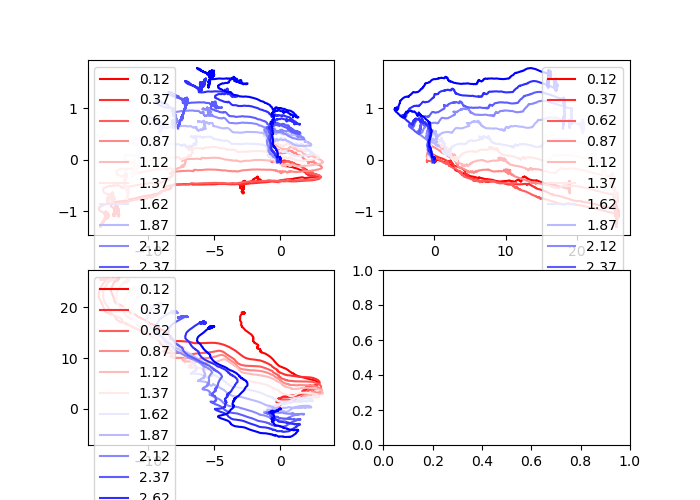
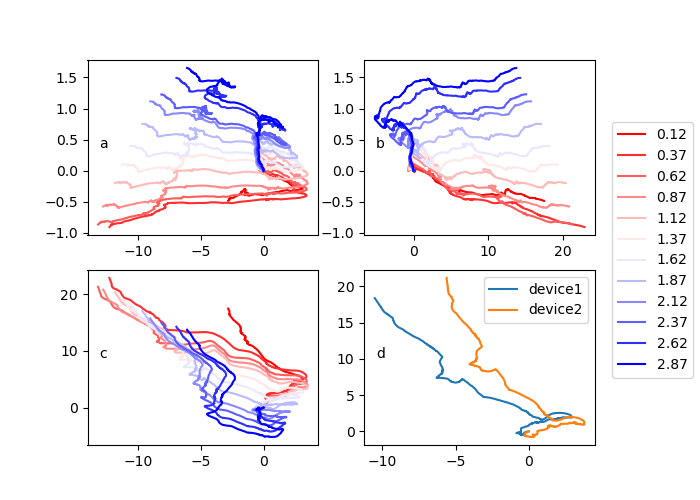
add legend to last sublot, trim air recording, update plots

diff --git a/make_plots.py b/make_plots.py
@@ -11,15 +11,18 @@ def plot_pvd(x, y, ax=None):
         ax.plot(x.loc[:, depth], y.loc[:, depth], label=f"{depth:.2f}", color=color)
 
 
+index = slice("2020-03-28", "2020-04-05")
 aq1 = {}
 for direction in ["East", "North", "Up"]:
     aq1[direction.lower()] = pd.read_csv(f"AQ1_EXP102.{direction}.csv", index_col=0, parse_dates=True)
     aq1[direction.lower()].columns = aq1[direction.lower()].columns.astype(float)
+    aq1[direction.lower()] = aq1[direction.lower()].loc[index]
 
 aq2 = {}
 for direction in ["East", "North", "Up"]:
     aq2[direction.lower()] = pd.read_csv(f"AQ2_EXP1-202.{direction}.csv", index_col=0, parse_dates=True)
     aq2[direction.lower()].columns = aq1[direction.lower()].columns.astype(float)
+    aq2[direction.lower()] = aq2[direction.lower()].loc[index]
 
 cols = aq1['east'].columns.values[::10]
 fig, axes = plt.subplots(2, 2, figsize=(7, 5))
@@ -28,8 +31,9 @@ plot_pvd(aq1["east"], aq1["up"], axes[0])
 plot_pvd(aq1["north"], aq1["up"], axes[1])
 plot_pvd(aq1["east"], aq1["north"], axes[2])
 cell = np.argmin(np.abs((1.6 - aq1['east'].columns.values)))
-axes[3].plot(aq1["east"].iloc[:, cell].cumsum(), aq1["north"].iloc[:, cell].cumsum())
-axes[3].plot(aq2["east"].iloc[:, cell].cumsum(), aq2["north"].iloc[:, cell].cumsum())
+axes[3].plot(aq1["east"].iloc[:, cell].cumsum(), aq1["north"].iloc[:, cell].cumsum(), label="device1")
+axes[3].plot(aq2["east"].iloc[:, cell].cumsum(), aq2["north"].iloc[:, cell].cumsum(), label="device2")
+axes[3].legend()
 
 for ax, label in zip(axes, "abcd"):
     ax.text(s=label, x=0.05, y=0.5, transform=ax.transAxes)
